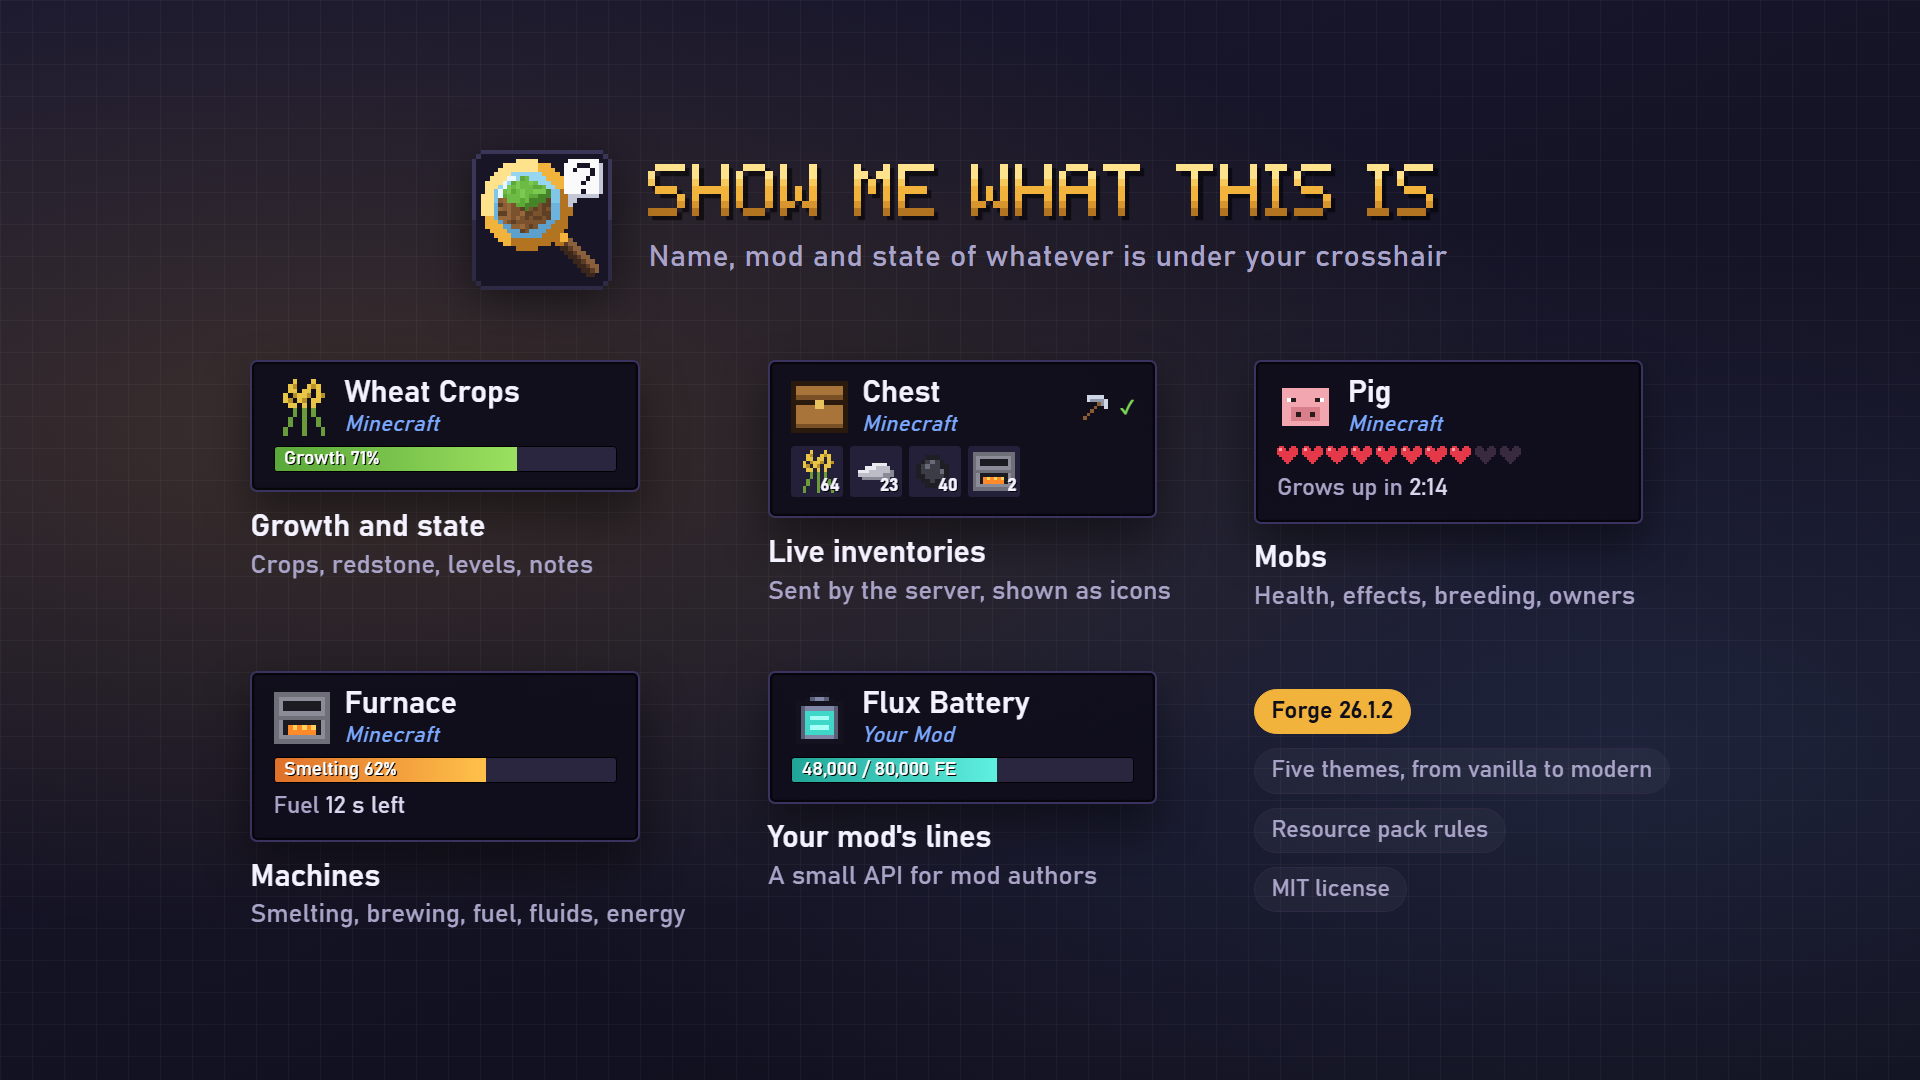
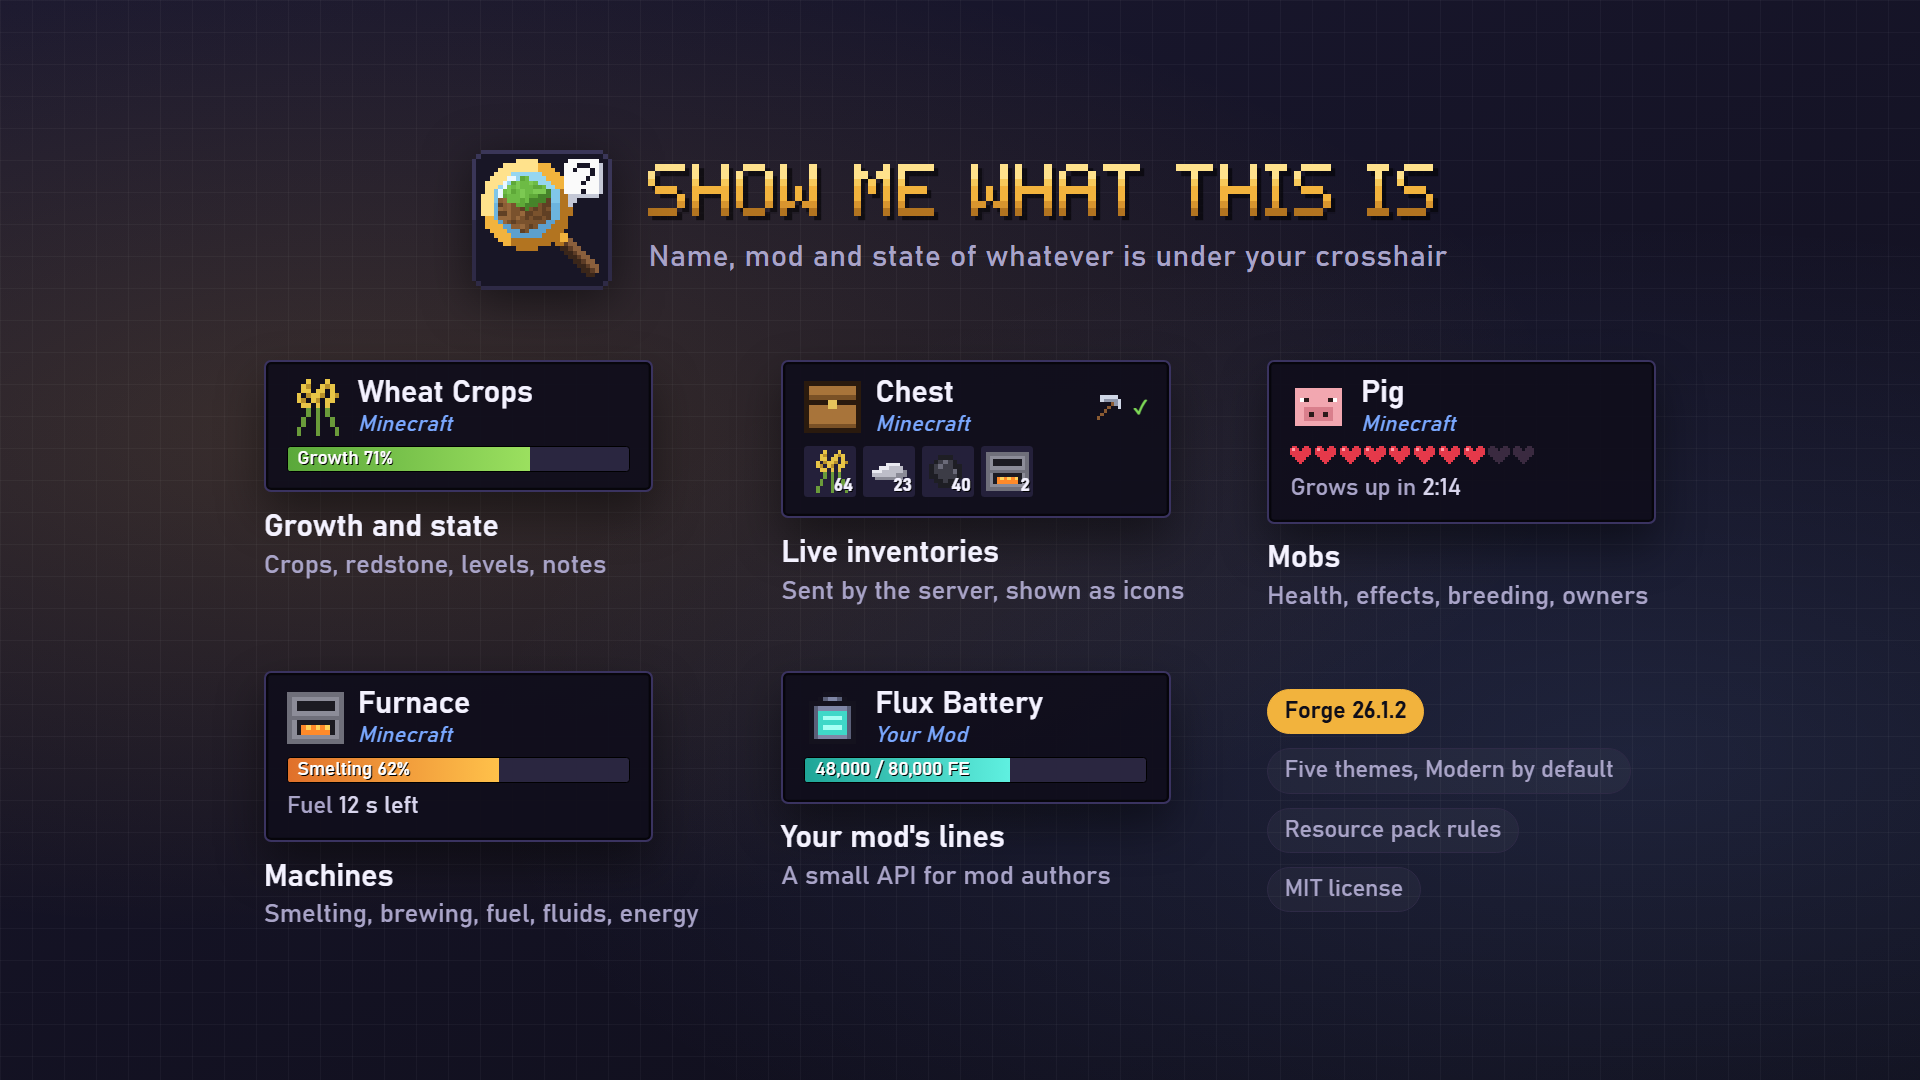
Smaller tool badge beside the name

diff --git a/branding/source/banners.html b/branding/source/banners.html
@@ -66,7 +66,7 @@
     background: var(--p); color: var(--t); position: relative; }
   .tpanel.edge { box-shadow: inset 0 0 0 3px var(--e); }
   .tpanel.rounded { border-radius: 5px; }
-  .tpanel.accent::before { content: ""; position: absolute; left: 3px; right: 3px; top: 0; height: 4px; background: var(--a); }
+  .tpanel.accent::before { content: ""; position: absolute; left: 0; right: 0; top: 0; height: 4px; background: var(--a); }
   .tpanel.shadow .name, .tpanel.shadow .line { text-shadow: 2px 2px 0 rgba(0,0,0,.55); }
   .tpanel .name { color: var(--t); }
   .tpanel .tmod { font-size: 19px; color: var(--s); line-height: 1; margin-top: 4px; }
@@ -217,12 +217,13 @@ const PANELS = {
 
 
 // ---------- themes ----------
+// Colors from client/Palette.java at the default opacity (80%). Modern is the default theme.
 const THEMES = [
-  ["Dark",    {p:"rgba(16,16,24,.75)",  e:"#3a3a4c", t:"#ffffff", s:"#8e8ea6", b:"#2a2a34"}, "edge shadow"],
-  ["Light",   {p:"rgba(240,240,244,.88)", e:"#9a9aaa", t:"#202028", s:"#6a6a7a", b:"#c8c8d4"}, "edge"],
-  ["Vanilla", {p:"rgba(16,0,16,.94)",   e:"rgba(80,0,255,.94)", t:"#ffffff", s:"#aaaaaa", b:"#2a1a3a"}, "edge shadow"],
-  ["Clear",   {p:"rgba(0,0,0,.31)",     e:"transparent", t:"#ffffff", s:"#cccccc", b:"rgba(0,0,0,.5)"}, "shadow"],
-  ["Modern",  {p:"rgba(20,24,33,.91)",  e:"transparent", t:"#eaf0fa", s:"#7c8aa5", b:"#222a38", a:"#4da3ff"}, "shadow accent rounded"],
+  ["Modern",  {p:"rgba(20,24,33,.73)",  e:"transparent", t:"#eaf0fa", s:"#7c8aa5", b:"#222a38", a:"#ff8a1f"}, "shadow accent", true],
+  ["Dark",    {p:"rgba(16,16,24,.6)",   e:"rgba(58,58,76,.8)", t:"#ffffff", s:"#8e8ea6", b:"#2a2a34"}, "edge shadow"],
+  ["Light",   {p:"rgba(240,240,244,.7)", e:"rgba(154,154,170,.8)", t:"#202028", s:"#6a6a7a", b:"#c8c8d4"}, "edge"],
+  ["Vanilla", {p:"rgba(16,0,16,.75)",   e:"rgba(80,0,255,.75)", t:"#ffffff", s:"#aaaaaa", b:"#2a1a3a"}, "edge shadow"],
+  ["Clear",   {p:"rgba(0,0,0,.25)",     e:"transparent", t:"#ffffff", s:"#cccccc", b:"rgba(0,0,0,.5)"}, "shadow"],
 ];
 function themePanel([label, c, flags]) {
   const vars = Object.entries(c).map(([k, v]) => `--${k}:${v}`).join(";");
@@ -278,7 +279,7 @@ const ASSETS = {
     const row = el("div", {style: "position:absolute;left:0;right:0;top:12px;display:flex;justify-content:center;gap:8px"});
     for (const t of THEMES) {
       const p = themePanel(t); p.style.cssText += ";zoom:.46";
-      row.append(el("div", {}, p, el("div", {class: "tlabel", style: "margin-top:7px"}, half(pixelText(t[0], 4, WHITE)))));
+      row.append(el("div", {}, p, el("div", {class: "tlabel", style: "margin-top:7px"}, half(pixelText(t[0], 4, t[3] ? BEVEL : WHITE)))));
     }
     r.append(row);
   }],
@@ -292,12 +293,12 @@ const ASSETS = {
     r.style.cssText += "display:flex;flex-direction:column";
     r.append(el("div", {style: "height:230px;display:flex;align-items:center;justify-content:center;gap:36px"}, iconImg(130),
       el("div", {style: "display:flex;flex-direction:column;align-items:flex-start;gap:16px"}, pixelText("Five themes", 7),
-        el("div", {class: "tag"}, "Pick one in the settings, then set how see-through the backdrop is"))));
+        el("div", {class: "tag"}, "Modern is the default. Pick another in the settings and set how see-through it is"))));
     const world = el("div", {style: "position:relative;flex:1"});
     const bg = scene(1920, 850, 64); bg.style.cssText = "position:absolute;inset:0";
     world.append(bg);
     const row = el("div", {style: "position:absolute;left:0;right:0;top:340px;display:flex;justify-content:center;gap:40px"});
-    for (const t of THEMES) row.append(el("div", {}, themePanel(t), el("div", {class: "tlabel"}, pixelText(t[0], 5, WHITE))));
+    for (const t of THEMES) row.append(el("div", {}, themePanel(t), el("div", {class: "tlabel"}, pixelText(t[0], 5, t[3] ? BEVEL : WHITE))));
     world.append(row);
     r.append(world);
   }],
@@ -316,7 +317,7 @@ const ASSETS = {
     const grid = el("div", {style: "zoom:1.18;display:grid;grid-template-columns:repeat(3,auto);gap:50px 70px;justify-content:center;align-items:start"});
     for (const [k, t, d] of items) grid.append(el("div", {}, PANELS[k](), el("div", {class: "cap"}, el("b", {}, t), d)));
     grid.append(el("div", {style: "align-self:center"}, el("div", {class: "meta", style: "flex-direction:column;align-items:flex-start"},
-      el("span", {class: "pill on"}, "Forge 26.1.2"), el("span", {class: "pill"}, "Five themes, from vanilla to modern"),
+      el("span", {class: "pill on"}, "Forge 26.1.2"), el("span", {class: "pill"}, "Five themes, Modern by default"),
       el("span", {class: "pill"}, "Resource pack rules"), el("span", {class: "pill"}, "MIT license"))));
     r.append(grid);
   }],

diff --git a/src/main/java/com/itmecasey/smwti/client/OverlayLayer.java b/src/main/java/com/itmecasey/smwti/client/OverlayLayer.java
@@ -52,6 +52,8 @@ public final class OverlayLayer {
     private static final int ICON = 16;
     /** Side of the small icon before an item line; the item is drawn at 16 and scaled to this. */
     private static final int SMALL_ICON = 12;
+    /** Side of the badge beside the name, in pixels; the 16 pixel icon scaled down. */
+    private static final int BADGE_ICON = 11;
     /** A grid cell for a listed item stack: the 16 pixel icon and a pixel of air. */
     private static final int SLOT = 18;
     /** Stacks listed side by side per row. */
@@ -333,9 +335,9 @@ public final class OverlayLayer {
             return Math.max(widest, 60) + 2 * PADDING;
         }
 
-        /** A badge that is only an item stack is drawn at full size, like the target's own icon. */
+        /** A badge that is only an item stack is drawn small, so it stays a mark beside the name. */
         private static int badgeWidth(Font font, Line badge) {
-            return badge.isStack() ? ICON : lineWidth(font, badge);
+            return badge.isStack() ? BADGE_ICON : lineWidth(font, badge);
         }
 
         /** The height of the top line, which holds the icon, the name and the badge side by side. */
@@ -373,7 +375,12 @@ public final class OverlayLayer {
                 // Flush with the right edge of the panel.
                 int badgeX = x + innerWidth - badgeWidth(font, badge);
                 if (badge.isStack()) {
-                    drawStack(graphics, font, badge, badgeX, y + (top - ICON) / 2);
+                    // Drawn at the small size: the icon and its corner mark are scaled down together.
+                    graphics.pose().pushMatrix();
+                    graphics.pose().translate(badgeX, y + (top - BADGE_ICON) / 2.0F);
+                    graphics.pose().scale(BADGE_ICON / (float) ICON, BADGE_ICON / (float) ICON);
+                    drawStack(graphics, font, badge, 0, 0);
+                    graphics.pose().popMatrix();
                 } else {
                     drawLine(graphics, font, badge, badgeX, y + (top - Math.max(font.lineHeight, SMALL_ICON)) / 2, 0);
                 }

diff --git a/branding/source/render_banners.py b/branding/source/render_banners.py
@@ -31,5 +31,5 @@ for name, (w, h, scale) in ASSETS.items():
         CHROME, "--headless=new", "--disable-gpu", "--hide-scrollbars", f"--force-device-scale-factor={scale}",
         "--allow-file-access-from-files", f"--user-data-dir={PROFILE}", "--virtual-time-budget=2000",
         f"--window-size={w},{h}", f"--screenshot={target}", f"{page}#{name}",
-    ], check=True, capture_output=True)
+    ], check=True, capture_output=True, timeout=90)
     print("wrote", target.name)

diff --git a/branding/LISTING.md b/branding/LISTING.md
@@ -36,8 +36,9 @@ CurseForge (keep it short; it shows on cards):
 | `banners/features.png` (1920x1080) | Featured gallery image on Modrinth, first image on CurseForge |
 | `banners/themes.png` (1920x1080) | The five themes side by side, second gallery image |
 | `banners/social.png` (1280x640) | GitHub social preview (repo Settings > Social preview), third gallery image |
-| `banners/banner.png` (1600x400) | Top of both descriptions |
-| `banners/h_*.png` (1200x110) | Section headers inside the descriptions |
+| `banners/banner.png` (800x150, saved at 2x) | Top of both descriptions |
+| `banners/themes_strip.png` (800x150, saved at 2x) | Themes row inside the descriptions |
+| `banners/h_*.png` (800x46, saved at 2x) | Section headers inside the descriptions |
 
 The panels in these images are illustrations drawn for the branding, not game screenshots. Add real in-game screenshots to the gallery once the overlay has been checked in a client.
 
@@ -69,13 +70,14 @@ It is inspired by Jade and The One Probe, which have no Forge build for this Min
 
 - Install it on the client. It works on any server; a server that also has SMWTI sends extra live data (chest contents, tank levels, machine progress).
 - **Numpad 0** opens the settings, **Numpad 1** turns the overlay on and off. Both can be rebound in Controls.
+- Drag the overlay anywhere on the screen from the settings (**Move overlay...**). The spot is kept when the window size changes.
 - Resource packs can hide, rename or add lines to any block or entity with a small JSON file.
 
 ![Themes](https://raw.githubusercontent.com/ItMeCasey/SMWTI/main/branding/banners/h_themes.png)
 
-Five themes: dark, light, vanilla, clear and modern. Pick one in the settings and set how see-through the backdrop is.
+Five themes: modern (the default), dark, light, vanilla and clear. Pick one in the settings and set how see-through the backdrop is.
 
-![The five themes](https://raw.githubusercontent.com/ItMeCasey/SMWTI/main/branding/banners/themes.png)
+![The five themes](https://raw.githubusercontent.com/ItMeCasey/SMWTI/main/branding/banners/themes_strip.png)
 
 ![For mod authors](https://raw.githubusercontent.com/ItMeCasey/SMWTI/main/branding/banners/h_authors.png)
 
